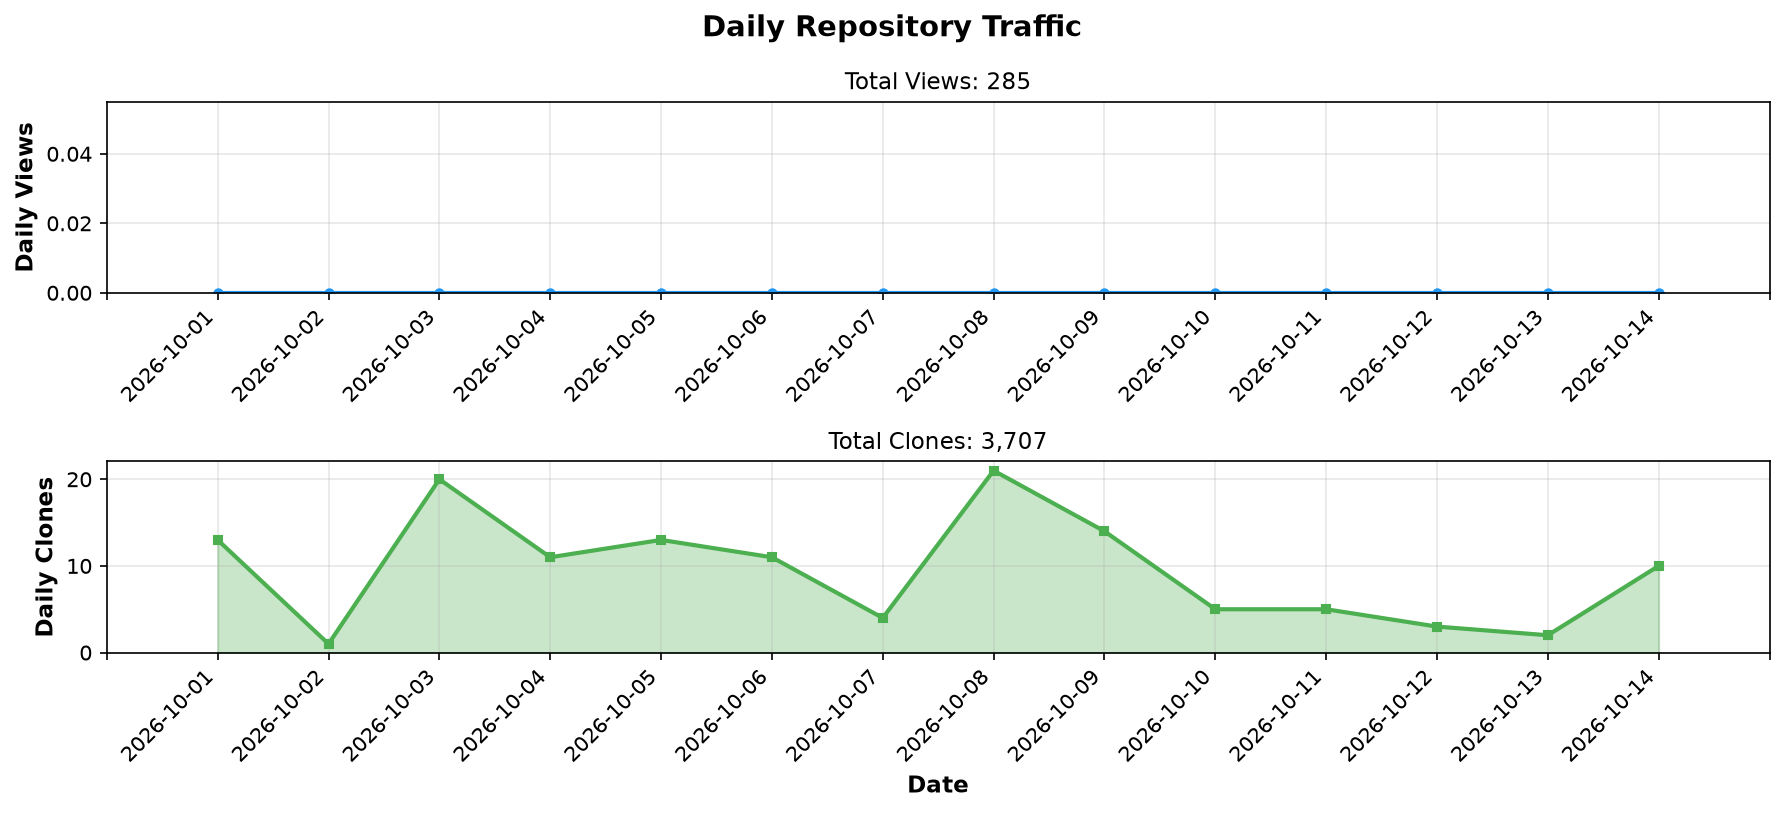
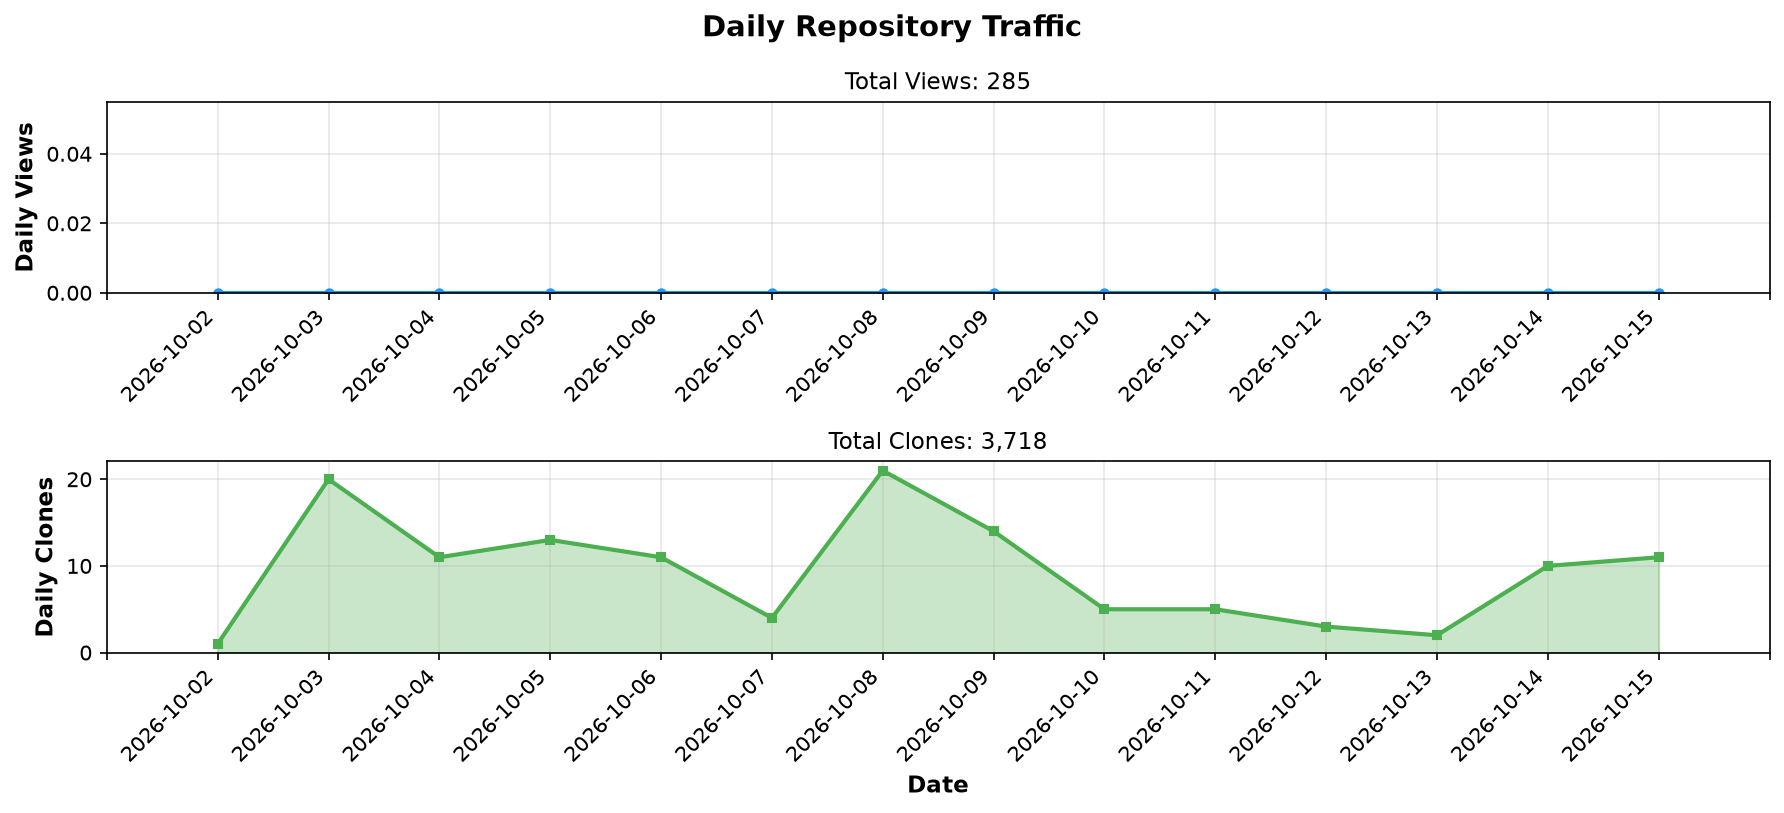
chore: update repository stats [skip ci]

Changed region(s): [[0.1233, 0.5843, 0.9557, 0.7995], [0.5858, 0.8303, 0.6166, 0.861], [0.5549, 0.5228, 0.5858, 0.5535]]

diff --git a/README.md b/README.md
@@ -95,9 +95,9 @@ I'm BonoJovi (Yoshihiro NAKAHARA), the project initiator.
 | Metric | Count |
 |--------|-------|
 | 👁 **Total Views** | **285** |
-| 📦 **Total Clones** | **3,707** |
+| 📦 **Total Clones** | **3,718** |
 
-*Last Updated: 2026-10-16 01:16 UTC*
+*Last Updated: 2026-10-17 01:16 UTC*
 
 </div>
 <!-- STATS_END -->
